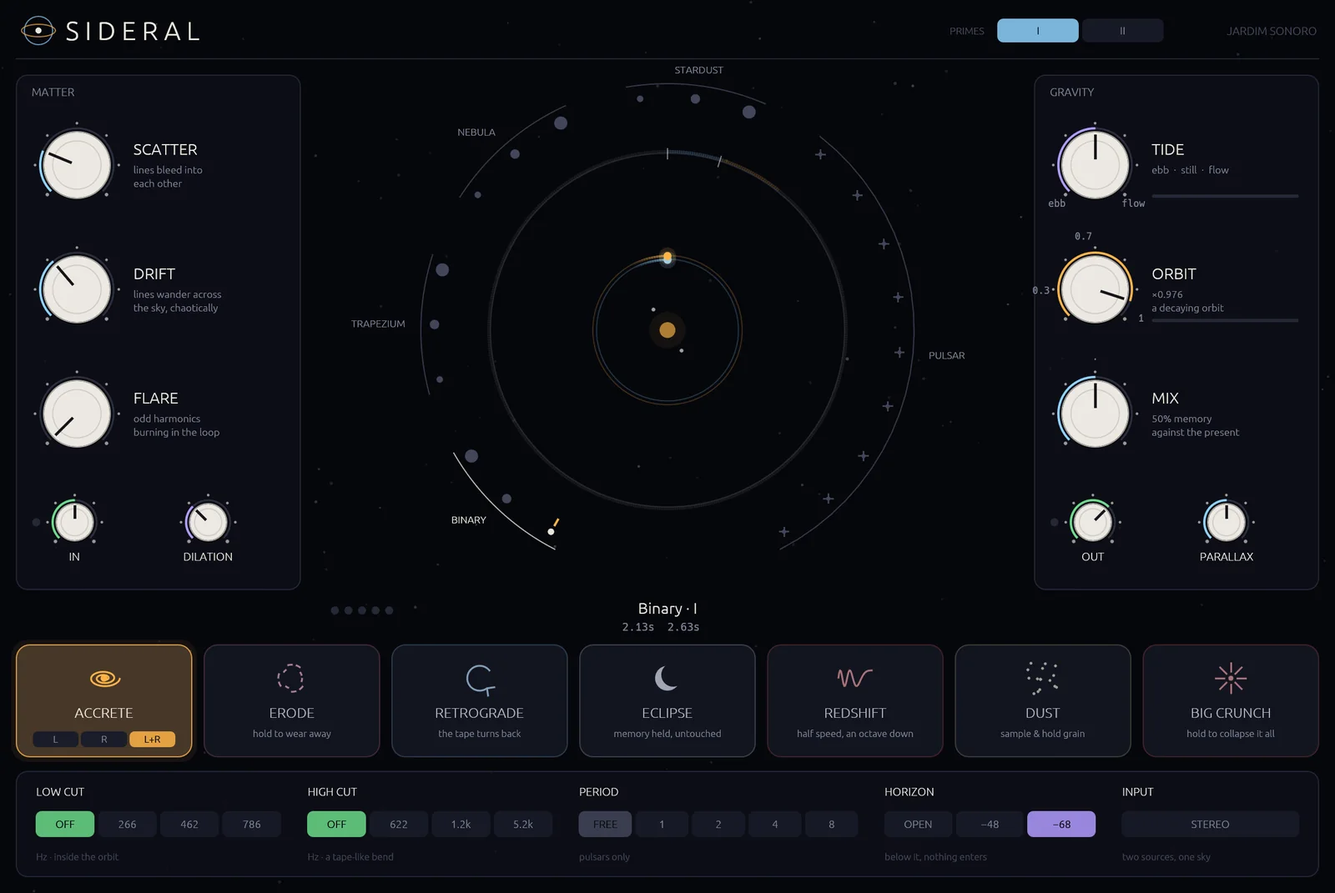
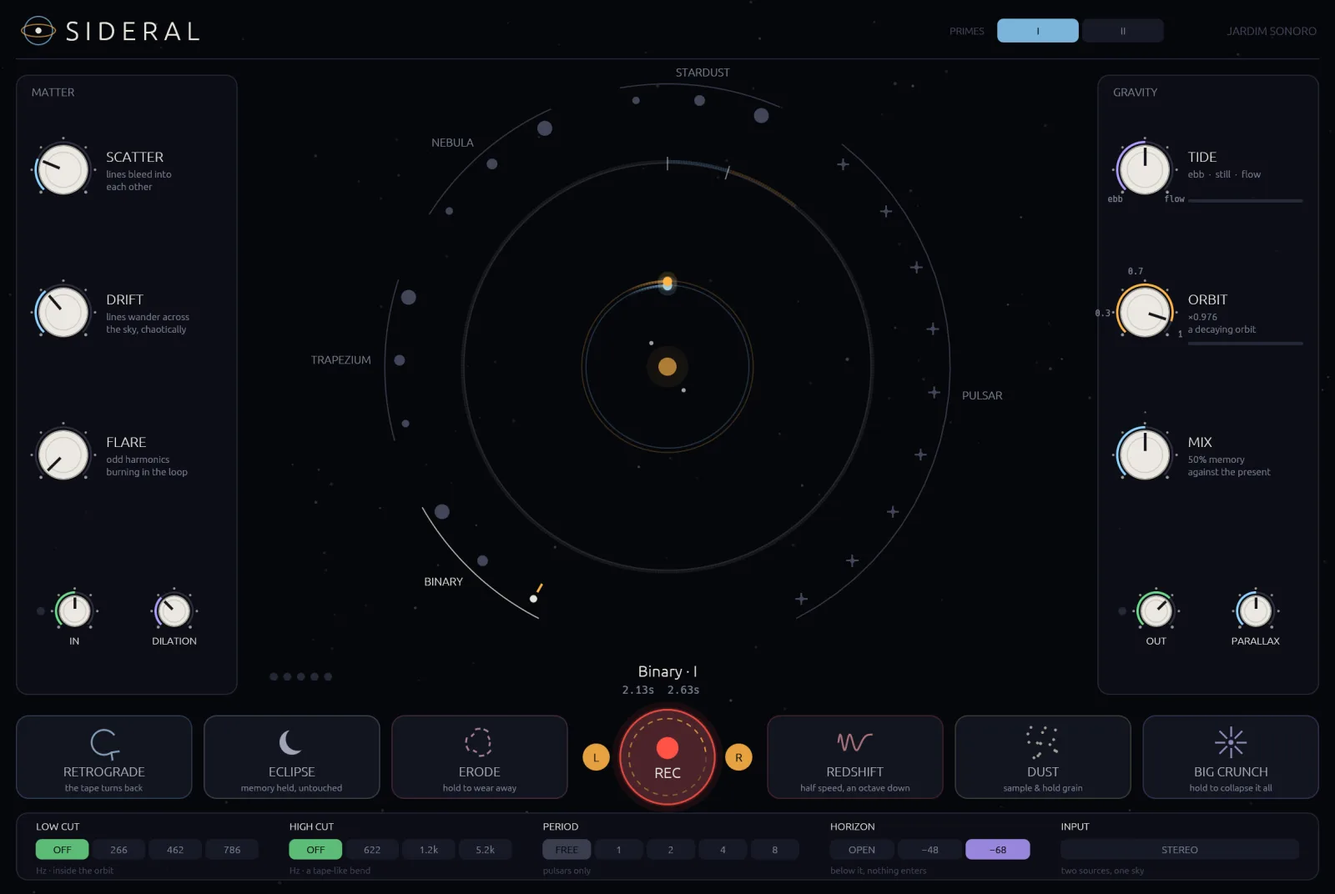
audio: Sideral's new sky, its memory length kept a mystery; drop plug-in formats from the descriptions

diff --git a/audio/index.html b/audio/index.html
@@ -4,10 +4,10 @@
 <meta charset="utf-8">
 <meta name="viewport" content="width=device-width, initial-scale=1">
 <title>Jardim Sonoro: Audio — open-source plug-ins &amp; instruments</title>
-<meta name="description" content="Open-source audio plug-ins for macOS, Windows and Linux: circuit-modelled CS-80, Oberheim, DX7 and Juno-106 synths, a drifting prime-number memory, natural vocal pitch correction, a Bi-Phase phaser, mastering tools, and Audio Ease classics rebuilt bit for bit. AU / VST3 / CLAP, written in Rust.">
+<meta name="description" content="Open-source audio plug-ins for macOS, Windows and Linux: circuit-modelled CS-80, Oberheim, DX7 and Juno-106 synths, a drifting prime-number memory, natural vocal pitch correction, a Bi-Phase phaser, mastering tools, and Audio Ease classics rebuilt bit for bit. Written in Rust.">
 <link rel="canonical" href="https://jardimsonoro.com/audio/">
 <meta property="og:title" content="Jardim Sonoro: Audio — open-source plug-ins &amp; instruments">
-<meta property="og:description" content="Open-source audio plug-ins for macOS, Windows and Linux: circuit-modelled CS-80, Oberheim, DX7 and Juno-106 synths, a drifting prime-number memory, natural vocal pitch correction, a Bi-Phase phaser, mastering tools, and Audio Ease classics rebuilt bit for bit. AU / VST3 / CLAP, written in Rust.">
+<meta property="og:description" content="Open-source audio plug-ins for macOS, Windows and Linux: circuit-modelled CS-80, Oberheim, DX7 and Juno-106 synths, a drifting prime-number memory, natural vocal pitch correction, a Bi-Phase phaser, mastering tools, and Audio Ease classics rebuilt bit for bit. Written in Rust.">
 <meta property="og:type" content="website">
 <meta property="og:url" content="https://jardimsonoro.com/audio/">
 <meta property="og:image" content="https://jardimsonoro.com/audio/shots/og.jpg">
@@ -17,7 +17,7 @@
 <link rel="preconnect" href="https://fonts.googleapis.com"><link rel="preconnect" href="https://fonts.gstatic.com" crossorigin>
 <link href="https://fonts.googleapis.com/css2?family=Ubuntu:ital,wght@0,300;0,400;0,500;0,700;1,400&display=swap" rel="stylesheet">
 <link rel="stylesheet" href="/audio/style.css?v=20261111">
-<script type="application/ld+json">{"@context": "https://schema.org", "@type": "CollectionPage", "name": "Jardim Sonoro Audio", "url": "https://jardimsonoro.com/audio/", "description": "Open-source audio plug-ins for macOS, Windows and Linux: circuit-modelled CS-80, Oberheim, DX7 and Juno-106 synths, a drifting prime-number memory, natural vocal pitch correction, a Bi-Phase phaser, mastering tools, and Audio Ease classics rebuilt bit for bit. AU / VST3 / CLAP, written in Rust.", "publisher": {"@type": "Organization", "name": "Jardim Sonoro", "url": "https://jardimsonoro.com/"}, "mainEntity": {"@type": "ItemList", "numberOfItems": 19, "itemListElement": [{"@type": "ListItem", "position": 1, "url": "https://jardimsonoro.com/audio/tyrell80/", "name": "Tyrell80"}, {"@type": "ListItem", "position": 2, "url": "https://jardimsonoro.com/audio/obxtra/", "name": "OBXTRA"}, {"@type": "ListItem", "position": 3, "url": "https://jardimsonoro.com/audio/dxdx7/", "name": "DXDX7"}, {"@type": "ListItem", "position": 4, "url": "https://jardimsonoro.com/audio/youth106/", "name": "Youth106"}, {"@type": "ListItem", "position": 5, "url": "https://jardimsonoro.com/audio/zynabre/", "name": "Zynabre"}, {"@type": "ListItem", "position": 6, "url": "https://jardimsonoro.com/audio/buenovox/", "name": "BuenoVOX"}, {"@type": "ListItem", "position": 7, "url": "https://jardimsonoro.com/audio/muchovox/", "name": "MuchoVox"}, {"@type": "ListItem", "position": 8, "url": "https://jardimsonoro.com/audio/sideral/", "name": "Sideral"}, {"@type": "ListItem", "position": 9, "url": "https://jardimsonoro.com/audio/mutante/", "name": "Mutante"}, {"@type": "ListItem", "position": 10, "url": "https://jardimsonoro.com/audio/th0nk3000/", "name": "th0nk3000"}, {"@type": "ListItem", "position": 11, "url": "https://jardimsonoro.com/audio/riverrun3k/", "name": "RiverRun3K"}, {"@type": "ListItem", "position": 12, "url": "https://jardimsonoro.com/audio/deepphasenine3k/", "name": "DeepPhaseNine3K"}, {"@type": "ListItem", "position": 13, "url": "https://jardimsonoro.com/audio/roger3k/", "name": "Roger3K"}, {"@type": "ListItem", "position": 14, "url": "https://jardimsonoro.com/audio/follo3k/", "name": "Follo3K"}, {"@type": "ListItem", "position": 15, "url": "https://jardimsonoro.com/audio/orbit3k/", "name": "Orbit3K"}, {"@type": "ListItem", "position": 16, "url": "https://jardimsonoro.com/audio/magnitude/", "name": "Magnitude"}, {"@type": "ListItem", "position": 17, "url": "https://jardimsonoro.com/audio/sunbliss/", "name": "Sunbliss"}, {"@type": "ListItem", "position": 18, "url": "https://jardimsonoro.com/audio/periscope3k/", "name": "Periscope3K"}, {"@type": "ListItem", "position": 19, "url": "https://jardimsonoro.com/audio/liveremote/", "name": "Live Remote"}]}}</script>
+<script type="application/ld+json">{"@context": "https://schema.org", "@type": "CollectionPage", "name": "Jardim Sonoro Audio", "url": "https://jardimsonoro.com/audio/", "description": "Open-source audio plug-ins for macOS, Windows and Linux: circuit-modelled CS-80, Oberheim, DX7 and Juno-106 synths, a drifting prime-number memory, natural vocal pitch correction, a Bi-Phase phaser, mastering tools, and Audio Ease classics rebuilt bit for bit. Written in Rust.", "publisher": {"@type": "Organization", "name": "Jardim Sonoro", "url": "https://jardimsonoro.com/"}, "mainEntity": {"@type": "ItemList", "numberOfItems": 19, "itemListElement": [{"@type": "ListItem", "position": 1, "url": "https://jardimsonoro.com/audio/tyrell80/", "name": "Tyrell80"}, {"@type": "ListItem", "position": 2, "url": "https://jardimsonoro.com/audio/obxtra/", "name": "OBXTRA"}, {"@type": "ListItem", "position": 3, "url": "https://jardimsonoro.com/audio/dxdx7/", "name": "DXDX7"}, {"@type": "ListItem", "position": 4, "url": "https://jardimsonoro.com/audio/youth106/", "name": "Youth106"}, {"@type": "ListItem", "position": 5, "url": "https://jardimsonoro.com/audio/zynabre/", "name": "Zynabre"}, {"@type": "ListItem", "position": 6, "url": "https://jardimsonoro.com/audio/buenovox/", "name": "BuenoVOX"}, {"@type": "ListItem", "position": 7, "url": "https://jardimsonoro.com/audio/muchovox/", "name": "MuchoVox"}, {"@type": "ListItem", "position": 8, "url": "https://jardimsonoro.com/audio/sideral/", "name": "Sideral"}, {"@type": "ListItem", "position": 9, "url": "https://jardimsonoro.com/audio/mutante/", "name": "Mutante"}, {"@type": "ListItem", "position": 10, "url": "https://jardimsonoro.com/audio/th0nk3000/", "name": "th0nk3000"}, {"@type": "ListItem", "position": 11, "url": "https://jardimsonoro.com/audio/riverrun3k/", "name": "RiverRun3K"}, {"@type": "ListItem", "position": 12, "url": "https://jardimsonoro.com/audio/deepphasenine3k/", "name": "DeepPhaseNine3K"}, {"@type": "ListItem", "position": 13, "url": "https://jardimsonoro.com/audio/roger3k/", "name": "Roger3K"}, {"@type": "ListItem", "position": 14, "url": "https://jardimsonoro.com/audio/follo3k/", "name": "Follo3K"}, {"@type": "ListItem", "position": 15, "url": "https://jardimsonoro.com/audio/orbit3k/", "name": "Orbit3K"}, {"@type": "ListItem", "position": 16, "url": "https://jardimsonoro.com/audio/magnitude/", "name": "Magnitude"}, {"@type": "ListItem", "position": 17, "url": "https://jardimsonoro.com/audio/sunbliss/", "name": "Sunbliss"}, {"@type": "ListItem", "position": 18, "url": "https://jardimsonoro.com/audio/periscope3k/", "name": "Periscope3K"}, {"@type": "ListItem", "position": 19, "url": "https://jardimsonoro.com/audio/liveremote/", "name": "Live Remote"}]}}</script>
 </head>
 <body>
 <div class="stage" aria-hidden="true">
@@ -39,7 +39,7 @@
 
   <nav class="filters" aria-label="Filter plug-ins by kind"><button class="chip on" type="button" data-cat="all" aria-pressed="true">All <span>19</span></button><button class="chip" type="button" data-cat="synth" aria-pressed="false">Synthesizers <span>5</span></button><button class="chip" type="button" data-cat="vocal" aria-pressed="false">Vocals <span>2</span></button><button class="chip" type="button" data-cat="fx" aria-pressed="false">Effects <span>8</span></button><button class="chip" type="button" data-cat="master" aria-pressed="false">Mastering <span>3</span></button><button class="chip" type="button" data-cat="tool" aria-pressed="false">Studio tools <span>1</span></button></nav>
 
-  <div class="grid" id="plugins" data-title="Jardim Sonoro: Audio — open-source plug-ins &amp; instruments" data-desc="Open-source audio plug-ins for macOS, Windows and Linux: circuit-modelled CS-80, Oberheim, DX7 and Juno-106 synths, a drifting prime-number memory, natural vocal pitch correction, a Bi-Phase phaser, mastering tools, and Audio Ease classics rebuilt bit for bit. AU / VST3 / CLAP, written in Rust.">
+  <div class="grid" id="plugins" data-title="Jardim Sonoro: Audio — open-source plug-ins &amp; instruments" data-desc="Open-source audio plug-ins for macOS, Windows and Linux: circuit-modelled CS-80, Oberheim, DX7 and Juno-106 synths, a drifting prime-number memory, natural vocal pitch correction, a Bi-Phase phaser, mastering tools, and Audio Ease classics rebuilt bit for bit. Written in Rust.">
     <article class="plug" id="tyrell80" data-repo="tyrell80" data-cat="synth">
       <a class="card" href="/audio/tyrell80/" aria-expanded="false" aria-controls="d-tyrell80">
         <span class="thumb"><img src="/audio/shots/tyrell80-800.webp" alt="Tyrell80 interface" loading="lazy" decoding="async"></span>

diff --git a/audio/sideral/index.html b/audio/sideral/index.html
@@ -4,10 +4,10 @@
 <meta charset="utf-8">
 <meta name="viewport" content="width=device-width, initial-scale=1">
 <title>Sideral — Drifting memory station: delays, reverb, grains and loopers</title>
-<meta name="description" content="A memory that drifts like the sky: prime-length delays that never repeat. Sideral is 44.7 seconds of sound memory carved into delay lines whose lengths…">
+<meta name="description" content="A memory that drifts like the sky: prime-length delays that never repeat. Sideral is a sound memory of undisclosed length, carved into delay lines whose…">
 <link rel="canonical" href="https://jardimsonoro.com/audio/sideral/">
 <meta property="og:title" content="Sideral — Drifting memory station: delays, reverb, grains and loopers">
-<meta property="og:description" content="A memory that drifts like the sky: prime-length delays that never repeat. Sideral is 44.7 seconds of sound memory carved into delay lines whose lengths…">
+<meta property="og:description" content="A memory that drifts like the sky: prime-length delays that never repeat. Sideral is a sound memory of undisclosed length, carved into delay lines whose…">
 <meta property="og:type" content="product">
 <meta property="og:url" content="https://jardimsonoro.com/audio/sideral/">
 <meta property="og:image" content="https://jardimsonoro.com/audio/shots/sideral-1600.webp">
@@ -17,7 +17,7 @@
 <link rel="preconnect" href="https://fonts.googleapis.com"><link rel="preconnect" href="https://fonts.gstatic.com" crossorigin>
 <link href="https://fonts.googleapis.com/css2?family=Ubuntu:ital,wght@0,300;0,400;0,500;0,700;1,400&display=swap" rel="stylesheet">
 <link rel="stylesheet" href="/audio/style.css?v=20261111">
-<script type="application/ld+json">{"@context": "https://schema.org", "@type": "SoftwareApplication", "name": "Sideral", "url": "https://jardimsonoro.com/audio/sideral/", "description": "A memory that drifts like the sky: prime-length delays that never repeat. Sideral is 44.7 seconds of sound memory carved into delay lines whose lengths…", "image": "https://jardimsonoro.com/audio/shots/sideral-1600.webp", "applicationCategory": "MultimediaApplication", "applicationSubCategory": "Drifting memory · delay · looper", "operatingSystem": "macOS, Windows, Linux", "isAccessibleForFree": true, "offers": {"@type": "Offer", "price": "0", "priceCurrency": "USD"}, "author": {"@type": "Organization", "name": "Jardim Sonoro", "url": "https://jardimsonoro.com/"}, "publisher": {"@type": "Organization", "name": "Jardim Sonoro", "url": "https://jardimsonoro.com/"}, "sameAs": ["https://github.com/nagualcode/sideral"]}</script>
+<script type="application/ld+json">{"@context": "https://schema.org", "@type": "SoftwareApplication", "name": "Sideral", "url": "https://jardimsonoro.com/audio/sideral/", "description": "A memory that drifts like the sky: prime-length delays that never repeat. Sideral is a sound memory of undisclosed length, carved into delay lines whose…", "image": "https://jardimsonoro.com/audio/shots/sideral-1600.webp", "applicationCategory": "MultimediaApplication", "applicationSubCategory": "Drifting memory · delay · looper", "operatingSystem": "macOS, Windows, Linux", "isAccessibleForFree": true, "offers": {"@type": "Offer", "price": "0", "priceCurrency": "USD"}, "author": {"@type": "Organization", "name": "Jardim Sonoro", "url": "https://jardimsonoro.com/"}, "publisher": {"@type": "Organization", "name": "Jardim Sonoro", "url": "https://jardimsonoro.com/"}, "sameAs": ["https://github.com/nagualcode/sideral"]}</script>
 <script type="application/ld+json">{"@context": "https://schema.org", "@type": "BreadcrumbList", "itemListElement": [{"@type": "ListItem", "position": 1, "name": "Jardim Sonoro", "item": "https://jardimsonoro.com/"}, {"@type": "ListItem", "position": 2, "name": "Audio", "item": "https://jardimsonoro.com/audio/"}, {"@type": "ListItem", "position": 3, "name": "Sideral", "item": "https://jardimsonoro.com/audio/sideral/"}]}</script>
 </head>
 <body class="has-open">
@@ -40,7 +40,7 @@
 
   <nav class="filters" aria-label="Filter plug-ins by kind"><button class="chip on" type="button" data-cat="all" aria-pressed="true">All <span>19</span></button><button class="chip" type="button" data-cat="synth" aria-pressed="false">Synthesizers <span>5</span></button><button class="chip" type="button" data-cat="vocal" aria-pressed="false">Vocals <span>2</span></button><button class="chip" type="button" data-cat="fx" aria-pressed="false">Effects <span>8</span></button><button class="chip" type="button" data-cat="master" aria-pressed="false">Mastering <span>3</span></button><button class="chip" type="button" data-cat="tool" aria-pressed="false">Studio tools <span>1</span></button></nav>
 
-  <div class="grid" id="plugins" data-title="Jardim Sonoro: Audio — open-source plug-ins &amp; instruments" data-desc="Open-source audio plug-ins for macOS, Windows and Linux: circuit-modelled CS-80, Oberheim, DX7 and Juno-106 synths, a drifting prime-number memory, natural vocal pitch correction, a Bi-Phase phaser, mastering tools, and Audio Ease classics rebuilt bit for bit. AU / VST3 / CLAP, written in Rust.">
+  <div class="grid" id="plugins" data-title="Jardim Sonoro: Audio — open-source plug-ins &amp; instruments" data-desc="Open-source audio plug-ins for macOS, Windows and Linux: circuit-modelled CS-80, Oberheim, DX7 and Juno-106 synths, a drifting prime-number memory, natural vocal pitch correction, a Bi-Phase phaser, mastering tools, and Audio Ease classics rebuilt bit for bit. Written in Rust.">
     <article class="plug" id="tyrell80" data-repo="tyrell80" data-cat="synth">
       <a class="card" href="/audio/tyrell80/" aria-expanded="false" aria-controls="d-tyrell80">
         <span class="thumb"><img src="/audio/shots/tyrell80-800.webp" alt="Tyrell80 interface" loading="lazy" decoding="async"></span>
@@ -110,14 +110,13 @@
         <h1 class="name"><span class="num">08.</span>Sideral</h1>
         <p class="headline">A memory that drifts like the sky: prime-length delays that never repeat.</p>
         <div class="cols">
-          <div class="text"><p>Sideral is 44.7 seconds of sound memory carved into delay lines whose lengths are all different prime numbers of samples. Once their heads pass each other they never line up again, so your phrases keep recombining and nothing comes back as a loop. Slow chaotic tides carry the lines across the stereo field.</p><p>Twenty-one programs in five constellations read the same memory in different ways: two and four drifting delays, a reverberation the size of a county, clouds of grains, and nine Pulsar loopers locked to your host&#x27;s bars that slice, shuffle, stutter and transpose the loop in place. Performance pads freeze it (Eclipse), reverse it (Retrograde), halve its speed (Redshift) or collapse it (Big Crunch). The editor is an orrery: every delay line is an orbit, every write head a planet.</p></div>
+          <div class="text"><p>Sideral is a sound memory of undisclosed length, carved into delay lines whose lengths are all different prime numbers of samples. Once their heads pass each other they never line up again, so your phrases keep recombining and nothing comes back as a loop. Slow chaotic tides carry the lines across the stereo field.</p><p>Twenty-one programs in five constellations read the same memory in different ways: two and four drifting delays, a reverberation the size of a county, clouds of grains, and nine Pulsar loopers locked to your host&#x27;s bars that slice, shuffle, stutter and transpose the loop in place. A round REC button sits at the heart of the performance pads, which freeze the memory (Eclipse), reverse it (Retrograde), halve its speed (Redshift) or collapse it (Big Crunch). The editor is an orrery: every delay line is an orbit, every write head a planet.</p></div>
           <div class="aside">
             <p class="tagline"><span class="loopCol">“It never plays the same thing twice. We asked it to. It declined.”</span></p>
             <ul class="specs">
               <li>_ Drifting memory · delay · looper</li>
               
-              <li>_ 21 programs in 5 constellations · 44.7 s of memory</li><li>_ Prime-length lines · loops locked to the host bars</li>
-              <li>_ AU · VST3 · CLAP</li>
+              <li>_ 21 programs in 5 constellations</li><li>_ Prime-length lines · loops locked to the host bars</li>
             </ul>
           </div>
         </div>

diff --git a/audio/follo3k/index.html b/audio/follo3k/index.html
@@ -40,7 +40,7 @@
 
   <nav class="filters" aria-label="Filter plug-ins by kind"><button class="chip on" type="button" data-cat="all" aria-pressed="true">All <span>19</span></button><button class="chip" type="button" data-cat="synth" aria-pressed="false">Synthesizers <span>5</span></button><button class="chip" type="button" data-cat="vocal" aria-pressed="false">Vocals <span>2</span></button><button class="chip" type="button" data-cat="fx" aria-pressed="false">Effects <span>8</span></button><button class="chip" type="button" data-cat="master" aria-pressed="false">Mastering <span>3</span></button><button class="chip" type="button" data-cat="tool" aria-pressed="false">Studio tools <span>1</span></button></nav>
 
-  <div class="grid" id="plugins" data-title="Jardim Sonoro: Audio — open-source plug-ins &amp; instruments" data-desc="Open-source audio plug-ins for macOS, Windows and Linux: circuit-modelled CS-80, Oberheim, DX7 and Juno-106 synths, a drifting prime-number memory, natural vocal pitch correction, a Bi-Phase phaser, mastering tools, and Audio Ease classics rebuilt bit for bit. AU / VST3 / CLAP, written in Rust.">
+  <div class="grid" id="plugins" data-title="Jardim Sonoro: Audio — open-source plug-ins &amp; instruments" data-desc="Open-source audio plug-ins for macOS, Windows and Linux: circuit-modelled CS-80, Oberheim, DX7 and Juno-106 synths, a drifting prime-number memory, natural vocal pitch correction, a Bi-Phase phaser, mastering tools, and Audio Ease classics rebuilt bit for bit. Written in Rust.">
     <article class="plug" id="tyrell80" data-repo="tyrell80" data-cat="synth">
       <a class="card" href="/audio/tyrell80/" aria-expanded="false" aria-controls="d-tyrell80">
         <span class="thumb"><img src="/audio/shots/tyrell80-800.webp" alt="Tyrell80 interface" loading="lazy" decoding="async"></span>
@@ -165,7 +165,6 @@
               <li>_ Audio Ease Follo, 2001</li>
               <li>_ Envelope-driven resonator</li>
               <li>_ One band, 20 Hz to 10 kHz, driven by the level</li><li>_ Bit-identical to the original: 41 of 41 tests</li>
-              <li>_ AU · VST3 · CLAP</li>
             </ul>
           </div>
         </div>

diff --git a/audio/riverrun3k/index.html b/audio/riverrun3k/index.html
@@ -40,7 +40,7 @@
 
   <nav class="filters" aria-label="Filter plug-ins by kind"><button class="chip on" type="button" data-cat="all" aria-pressed="true">All <span>19</span></button><button class="chip" type="button" data-cat="synth" aria-pressed="false">Synthesizers <span>5</span></button><button class="chip" type="button" data-cat="vocal" aria-pressed="false">Vocals <span>2</span></button><button class="chip" type="button" data-cat="fx" aria-pressed="false">Effects <span>8</span></button><button class="chip" type="button" data-cat="master" aria-pressed="false">Mastering <span>3</span></button><button class="chip" type="button" data-cat="tool" aria-pressed="false">Studio tools <span>1</span></button></nav>
 
-  <div class="grid" id="plugins" data-title="Jardim Sonoro: Audio — open-source plug-ins &amp; instruments" data-desc="Open-source audio plug-ins for macOS, Windows and Linux: circuit-modelled CS-80, Oberheim, DX7 and Juno-106 synths, a drifting prime-number memory, natural vocal pitch correction, a Bi-Phase phaser, mastering tools, and Audio Ease classics rebuilt bit for bit. AU / VST3 / CLAP, written in Rust.">
+  <div class="grid" id="plugins" data-title="Jardim Sonoro: Audio — open-source plug-ins &amp; instruments" data-desc="Open-source audio plug-ins for macOS, Windows and Linux: circuit-modelled CS-80, Oberheim, DX7 and Juno-106 synths, a drifting prime-number memory, natural vocal pitch correction, a Bi-Phase phaser, mastering tools, and Audio Ease classics rebuilt bit for bit. Written in Rust.">
     <article class="plug" id="tyrell80" data-repo="tyrell80" data-cat="synth">
       <a class="card" href="/audio/tyrell80/" aria-expanded="false" aria-controls="d-tyrell80">
         <span class="thumb"><img src="/audio/shots/tyrell80-800.webp" alt="Tyrell80 interface" loading="lazy" decoding="async"></span>
@@ -141,7 +141,6 @@
               <li>_ Audio Ease Riverrun, 2000</li>
               <li>_ Granular synthesizer</li>
               <li>_ Up to 2,000 grains a second · 23 pitch grids</li><li>_ Bit-identical to the original: 57 of 57 tests</li>
-              <li>_ AU · VST3 · CLAP</li>
             </ul>
           </div>
         </div>

diff --git a/audio/deepphasenine3k/index.html b/audio/deepphasenine3k/index.html
@@ -40,7 +40,7 @@
 
   <nav class="filters" aria-label="Filter plug-ins by kind"><button class="chip on" type="button" data-cat="all" aria-pressed="true">All <span>19</span></button><button class="chip" type="button" data-cat="synth" aria-pressed="false">Synthesizers <span>5</span></button><button class="chip" type="button" data-cat="vocal" aria-pressed="false">Vocals <span>2</span></button><button class="chip" type="button" data-cat="fx" aria-pressed="false">Effects <span>8</span></button><button class="chip" type="button" data-cat="master" aria-pressed="false">Mastering <span>3</span></button><button class="chip" type="button" data-cat="tool" aria-pressed="false">Studio tools <span>1</span></button></nav>
 
-  <div class="grid" id="plugins" data-title="Jardim Sonoro: Audio — open-source plug-ins &amp; instruments" data-desc="Open-source audio plug-ins for macOS, Windows and Linux: circuit-modelled CS-80, Oberheim, DX7 and Juno-106 synths, a drifting prime-number memory, natural vocal pitch correction, a Bi-Phase phaser, mastering tools, and Audio Ease classics rebuilt bit for bit. AU / VST3 / CLAP, written in Rust.">
+  <div class="grid" id="plugins" data-title="Jardim Sonoro: Audio — open-source plug-ins &amp; instruments" data-desc="Open-source audio plug-ins for macOS, Windows and Linux: circuit-modelled CS-80, Oberheim, DX7 and Juno-106 synths, a drifting prime-number memory, natural vocal pitch correction, a Bi-Phase phaser, mastering tools, and Audio Ease classics rebuilt bit for bit. Written in Rust.">
     <article class="plug" id="tyrell80" data-repo="tyrell80" data-cat="synth">
       <a class="card" href="/audio/tyrell80/" aria-expanded="false" aria-controls="d-tyrell80">
         <span class="thumb"><img src="/audio/shots/tyrell80-800.webp" alt="Tyrell80 interface" loading="lazy" decoding="async"></span>
@@ -149,7 +149,6 @@
               <li>_ Audio Ease Deep Phase Nine, 2000</li>
               <li>_ 24-notch phaser</li>
               <li>_ Up to 24 notches per channel · beat sync</li><li>_ Bit-identical to the original: 39 of 39 tests</li>
-              <li>_ AU · VST3 · CLAP</li>
             </ul>
           </div>
         </div>

diff --git a/audio/periscope3k/index.html b/audio/periscope3k/index.html
@@ -40,7 +40,7 @@
 
   <nav class="filters" aria-label="Filter plug-ins by kind"><button class="chip on" type="button" data-cat="all" aria-pressed="true">All <span>19</span></button><button class="chip" type="button" data-cat="synth" aria-pressed="false">Synthesizers <span>5</span></button><button class="chip" type="button" data-cat="vocal" aria-pressed="false">Vocals <span>2</span></button><button class="chip" type="button" data-cat="fx" aria-pressed="false">Effects <span>8</span></button><button class="chip" type="button" data-cat="master" aria-pressed="false">Mastering <span>3</span></button><button class="chip" type="button" data-cat="tool" aria-pressed="false">Studio tools <span>1</span></button></nav>
 
-  <div class="grid" id="plugins" data-title="Jardim Sonoro: Audio — open-source plug-ins &amp; instruments" data-desc="Open-source audio plug-ins for macOS, Windows and Linux: circuit-modelled CS-80, Oberheim, DX7 and Juno-106 synths, a drifting prime-number memory, natural vocal pitch correction, a Bi-Phase phaser, mastering tools, and Audio Ease classics rebuilt bit for bit. AU / VST3 / CLAP, written in Rust.">
+  <div class="grid" id="plugins" data-title="Jardim Sonoro: Audio — open-source plug-ins &amp; instruments" data-desc="Open-source audio plug-ins for macOS, Windows and Linux: circuit-modelled CS-80, Oberheim, DX7 and Juno-106 synths, a drifting prime-number memory, natural vocal pitch correction, a Bi-Phase phaser, mastering tools, and Audio Ease classics rebuilt bit for bit. Written in Rust.">
     <article class="plug" id="tyrell80" data-repo="tyrell80" data-cat="synth">
       <a class="card" href="/audio/tyrell80/" aria-expanded="false" aria-controls="d-tyrell80">
         <span class="thumb"><img src="/audio/shots/tyrell80-800.webp" alt="Tyrell80 interface" loading="lazy" decoding="async"></span>
@@ -197,7 +197,6 @@
               <li>_ Audio Ease PeriScope, 2000</li>
               <li>_ Zoomable 32-band EQ</li>
               <li>_ 32 linear-phase bands between two needles</li><li>_ Bit-identical to the original: 28 of 28 tests</li>
-              <li>_ AU · VST3 · CLAP</li>
             </ul>
           </div>
         </div>

diff --git a/audio/th0nk3000/index.html b/audio/th0nk3000/index.html
@@ -40,7 +40,7 @@
 
   <nav class="filters" aria-label="Filter plug-ins by kind"><button class="chip on" type="button" data-cat="all" aria-pressed="true">All <span>19</span></button><button class="chip" type="button" data-cat="synth" aria-pressed="false">Synthesizers <span>5</span></button><button class="chip" type="button" data-cat="vocal" aria-pressed="false">Vocals <span>2</span></button><button class="chip" type="button" data-cat="fx" aria-pressed="false">Effects <span>8</span></button><button class="chip" type="button" data-cat="master" aria-pressed="false">Mastering <span>3</span></button><button class="chip" type="button" data-cat="tool" aria-pressed="false">Studio tools <span>1</span></button></nav>
 
-  <div class="grid" id="plugins" data-title="Jardim Sonoro: Audio — open-source plug-ins &amp; instruments" data-desc="Open-source audio plug-ins for macOS, Windows and Linux: circuit-modelled CS-80, Oberheim, DX7 and Juno-106 synths, a drifting prime-number memory, natural vocal pitch correction, a Bi-Phase phaser, mastering tools, and Audio Ease classics rebuilt bit for bit. AU / VST3 / CLAP, written in Rust.">
+  <div class="grid" id="plugins" data-title="Jardim Sonoro: Audio — open-source plug-ins &amp; instruments" data-desc="Open-source audio plug-ins for macOS, Windows and Linux: circuit-modelled CS-80, Oberheim, DX7 and Juno-106 synths, a drifting prime-number memory, natural vocal pitch correction, a Bi-Phase phaser, mastering tools, and Audio Ease classics rebuilt bit for bit. Written in Rust.">
     <article class="plug" id="tyrell80" data-repo="tyrell80" data-cat="synth">
       <a class="card" href="/audio/tyrell80/" aria-expanded="false" aria-controls="d-tyrell80">
         <span class="thumb"><img src="/audio/shots/tyrell80-800.webp" alt="Tyrell80 interface" loading="lazy" decoding="async"></span>
@@ -133,7 +133,6 @@
               <li>_ Audio Ease Th0nk, 1996</li>
               <li>_ Granular collider</li>
               <li>_ 7 grain parameters scored over 20 minutes</li><li>_ Standalone app + plug-in, live input</li>
-              <li>_ Standalone · AU · VST3 · CLAP</li>
             </ul>
           </div>
         </div>

diff --git a/audio/orbit3k/index.html b/audio/orbit3k/index.html
@@ -40,7 +40,7 @@
 
   <nav class="filters" aria-label="Filter plug-ins by kind"><button class="chip on" type="button" data-cat="all" aria-pressed="true">All <span>19</span></button><button class="chip" type="button" data-cat="synth" aria-pressed="false">Synthesizers <span>5</span></button><button class="chip" type="button" data-cat="vocal" aria-pressed="false">Vocals <span>2</span></button><button class="chip" type="button" data-cat="fx" aria-pressed="false">Effects <span>8</span></button><button class="chip" type="button" data-cat="master" aria-pressed="false">Mastering <span>3</span></button><button class="chip" type="button" data-cat="tool" aria-pressed="false">Studio tools <span>1</span></button></nav>
 
-  <div class="grid" id="plugins" data-title="Jardim Sonoro: Audio — open-source plug-ins &amp; instruments" data-desc="Open-source audio plug-ins for macOS, Windows and Linux: circuit-modelled CS-80, Oberheim, DX7 and Juno-106 synths, a drifting prime-number memory, natural vocal pitch correction, a Bi-Phase phaser, mastering tools, and Audio Ease classics rebuilt bit for bit. AU / VST3 / CLAP, written in Rust.">
+  <div class="grid" id="plugins" data-title="Jardim Sonoro: Audio — open-source plug-ins &amp; instruments" data-desc="Open-source audio plug-ins for macOS, Windows and Linux: circuit-modelled CS-80, Oberheim, DX7 and Juno-106 synths, a drifting prime-number memory, natural vocal pitch correction, a Bi-Phase phaser, mastering tools, and Audio Ease classics rebuilt bit for bit. Written in Rust.">
     <article class="plug" id="tyrell80" data-repo="tyrell80" data-cat="synth">
       <a class="card" href="/audio/tyrell80/" aria-expanded="false" aria-controls="d-tyrell80">
         <span class="thumb"><img src="/audio/shots/tyrell80-800.webp" alt="Tyrell80 interface" loading="lazy" decoding="async"></span>
@@ -173,7 +173,6 @@
               <li>_ Audio Ease Orbit, 2001</li>
               <li>_ Flight path simulator</li>
               <li>_ 61 reflection paths per ear · Doppler</li><li>_ Bit-identical to the original: 39 of 39 tests</li>
-              <li>_ AU · VST3 · CLAP</li>
             </ul>
           </div>
         </div>

diff --git a/audio/roger3k/index.html b/audio/roger3k/index.html
@@ -40,7 +40,7 @@
 
   <nav class="filters" aria-label="Filter plug-ins by kind"><button class="chip on" type="button" data-cat="all" aria-pressed="true">All <span>19</span></button><button class="chip" type="button" data-cat="synth" aria-pressed="false">Synthesizers <span>5</span></button><button class="chip" type="button" data-cat="vocal" aria-pressed="false">Vocals <span>2</span></button><button class="chip" type="button" data-cat="fx" aria-pressed="false">Effects <span>8</span></button><button class="chip" type="button" data-cat="master" aria-pressed="false">Mastering <span>3</span></button><button class="chip" type="button" data-cat="tool" aria-pressed="false">Studio tools <span>1</span></button></nav>
 
-  <div class="grid" id="plugins" data-title="Jardim Sonoro: Audio — open-source plug-ins &amp; instruments" data-desc="Open-source audio plug-ins for macOS, Windows and Linux: circuit-modelled CS-80, Oberheim, DX7 and Juno-106 synths, a drifting prime-number memory, natural vocal pitch correction, a Bi-Phase phaser, mastering tools, and Audio Ease classics rebuilt bit for bit. AU / VST3 / CLAP, written in Rust.">
+  <div class="grid" id="plugins" data-title="Jardim Sonoro: Audio — open-source plug-ins &amp; instruments" data-desc="Open-source audio plug-ins for macOS, Windows and Linux: circuit-modelled CS-80, Oberheim, DX7 and Juno-106 synths, a drifting prime-number memory, natural vocal pitch correction, a Bi-Phase phaser, mastering tools, and Audio Ease classics rebuilt bit for bit. Written in Rust.">
     <article class="plug" id="tyrell80" data-repo="tyrell80" data-cat="synth">
       <a class="card" href="/audio/tyrell80/" aria-expanded="false" aria-controls="d-tyrell80">
         <span class="thumb"><img src="/audio/shots/tyrell80-800.webp" alt="Tyrell80 interface" loading="lazy" decoding="async"></span>
@@ -157,7 +157,6 @@
               <li>_ Audio Ease Roger, 2001</li>
               <li>_ Vowel filter</li>
               <li>_ 10 vowels × 3 voices · Auto babble in tempo</li><li>_ Bit-identical to the original: 55 of 55 tests</li>
-              <li>_ AU · VST3 · CLAP</li>
             </ul>
           </div>
         </div>

diff --git a/audio/tyrell80/index.html b/audio/tyrell80/index.html
@@ -40,7 +40,7 @@
 
   <nav class="filters" aria-label="Filter plug-ins by kind"><button class="chip on" type="button" data-cat="all" aria-pressed="true">All <span>19</span></button><button class="chip" type="button" data-cat="synth" aria-pressed="false">Synthesizers <span>5</span></button><button class="chip" type="button" data-cat="vocal" aria-pressed="false">Vocals <span>2</span></button><button class="chip" type="button" data-cat="fx" aria-pressed="false">Effects <span>8</span></button><button class="chip" type="button" data-cat="master" aria-pressed="false">Mastering <span>3</span></button><button class="chip" type="button" data-cat="tool" aria-pressed="false">Studio tools <span>1</span></button></nav>
 
-  <div class="grid" id="plugins" data-title="Jardim Sonoro: Audio — open-source plug-ins &amp; instruments" data-desc="Open-source audio plug-ins for macOS, Windows and Linux: circuit-modelled CS-80, Oberheim, DX7 and Juno-106 synths, a drifting prime-number memory, natural vocal pitch correction, a Bi-Phase phaser, mastering tools, and Audio Ease classics rebuilt bit for bit. AU / VST3 / CLAP, written in Rust.">
+  <div class="grid" id="plugins" data-title="Jardim Sonoro: Audio — open-source plug-ins &amp; instruments" data-desc="Open-source audio plug-ins for macOS, Windows and Linux: circuit-modelled CS-80, Oberheim, DX7 and Juno-106 synths, a drifting prime-number memory, natural vocal pitch correction, a Bi-Phase phaser, mastering tools, and Audio Ease classics rebuilt bit for bit. Written in Rust.">
     <article class="plug open" id="tyrell80" data-repo="tyrell80" data-cat="synth">
       <a class="card" href="/audio/tyrell80/" aria-expanded="true" aria-controls="d-tyrell80">
         <span class="thumb"><img src="/audio/shots/tyrell80-800.webp" alt="Tyrell80 interface" loading="lazy" decoding="async"></span>
@@ -61,7 +61,6 @@
               <li>_ Yamaha CS-80, 1977</li>
               <li>_ Polyphonic synthesizer</li>
               <li>_ 8 voices, two complete synth lines each</li><li>_ 75 presets, incl. the 22 factory tones</li>
-              <li>_ AU · VST3 · CLAP</li>
             </ul>
           </div>
         </div>

diff --git a/audio/obxtra/index.html b/audio/obxtra/index.html
@@ -40,7 +40,7 @@
 
   <nav class="filters" aria-label="Filter plug-ins by kind"><button class="chip on" type="button" data-cat="all" aria-pressed="true">All <span>19</span></button><button class="chip" type="button" data-cat="synth" aria-pressed="false">Synthesizers <span>5</span></button><button class="chip" type="button" data-cat="vocal" aria-pressed="false">Vocals <span>2</span></button><button class="chip" type="button" data-cat="fx" aria-pressed="false">Effects <span>8</span></button><button class="chip" type="button" data-cat="master" aria-pressed="false">Mastering <span>3</span></button><button class="chip" type="button" data-cat="tool" aria-pressed="false">Studio tools <span>1</span></button></nav>
 
-  <div class="grid" id="plugins" data-title="Jardim Sonoro: Audio — open-source plug-ins &amp; instruments" data-desc="Open-source audio plug-ins for macOS, Windows and Linux: circuit-modelled CS-80, Oberheim, DX7 and Juno-106 synths, a drifting prime-number memory, natural vocal pitch correction, a Bi-Phase phaser, mastering tools, and Audio Ease classics rebuilt bit for bit. AU / VST3 / CLAP, written in Rust.">
+  <div class="grid" id="plugins" data-title="Jardim Sonoro: Audio — open-source plug-ins &amp; instruments" data-desc="Open-source audio plug-ins for macOS, Windows and Linux: circuit-modelled CS-80, Oberheim, DX7 and Juno-106 synths, a drifting prime-number memory, natural vocal pitch correction, a Bi-Phase phaser, mastering tools, and Audio Ease classics rebuilt bit for bit. Written in Rust.">
     <article class="plug" id="tyrell80" data-repo="tyrell80" data-cat="synth">
       <a class="card" href="/audio/tyrell80/" aria-expanded="false" aria-controls="d-tyrell80">
         <span class="thumb"><img src="/audio/shots/tyrell80-800.webp" alt="Tyrell80 interface" loading="lazy" decoding="async"></span>
@@ -69,7 +69,6 @@
               <li>_ Oberheim OB-X · OB-Xa · OB-8, 1979</li>
               <li>_ Polyphonic synthesizer</li>
               <li>_ Up to 32 voices</li><li>_ 613 presets, incl. the OB-Xa factory bank</li>
-              <li>_ AU · VST3 · CLAP</li>
             </ul>
           </div>
         </div>

diff --git a/audio/youth106/index.html b/audio/youth106/index.html
@@ -40,7 +40,7 @@
 
   <nav class="filters" aria-label="Filter plug-ins by kind"><button class="chip on" type="button" data-cat="all" aria-pressed="true">All <span>19</span></button><button class="chip" type="button" data-cat="synth" aria-pressed="false">Synthesizers <span>5</span></button><button class="chip" type="button" data-cat="vocal" aria-pressed="false">Vocals <span>2</span></button><button class="chip" type="button" data-cat="fx" aria-pressed="false">Effects <span>8</span></button><button class="chip" type="button" data-cat="master" aria-pressed="false">Mastering <span>3</span></button><button class="chip" type="button" data-cat="tool" aria-pressed="false">Studio tools <span>1</span></button></nav>
 
-  <div class="grid" id="plugins" data-title="Jardim Sonoro: Audio — open-source plug-ins &amp; instruments" data-desc="Open-source audio plug-ins for macOS, Windows and Linux: circuit-modelled CS-80, Oberheim, DX7 and Juno-106 synths, a drifting prime-number memory, natural vocal pitch correction, a Bi-Phase phaser, mastering tools, and Audio Ease classics rebuilt bit for bit. AU / VST3 / CLAP, written in Rust.">
+  <div class="grid" id="plugins" data-title="Jardim Sonoro: Audio — open-source plug-ins &amp; instruments" data-desc="Open-source audio plug-ins for macOS, Windows and Linux: circuit-modelled CS-80, Oberheim, DX7 and Juno-106 synths, a drifting prime-number memory, natural vocal pitch correction, a Bi-Phase phaser, mastering tools, and Audio Ease classics rebuilt bit for bit. Written in Rust.">
     <article class="plug" id="tyrell80" data-repo="tyrell80" data-cat="synth">
       <a class="card" href="/audio/tyrell80/" aria-expanded="false" aria-controls="d-tyrell80">
         <span class="thumb"><img src="/audio/shots/tyrell80-800.webp" alt="Tyrell80 interface" loading="lazy" decoding="async"></span>
@@ -85,7 +85,6 @@
               <li>_ Roland Juno-106, 1984</li>
               <li>_ Polyphonic synthesizer</li>
               <li>_ 6 voices (8 or 10 optional)</li><li>_ 299 presets, incl. all 128 Juno-106 patches</li>
-              <li>_ AU · VST3 · CLAP</li>
             </ul>
           </div>
         </div>
